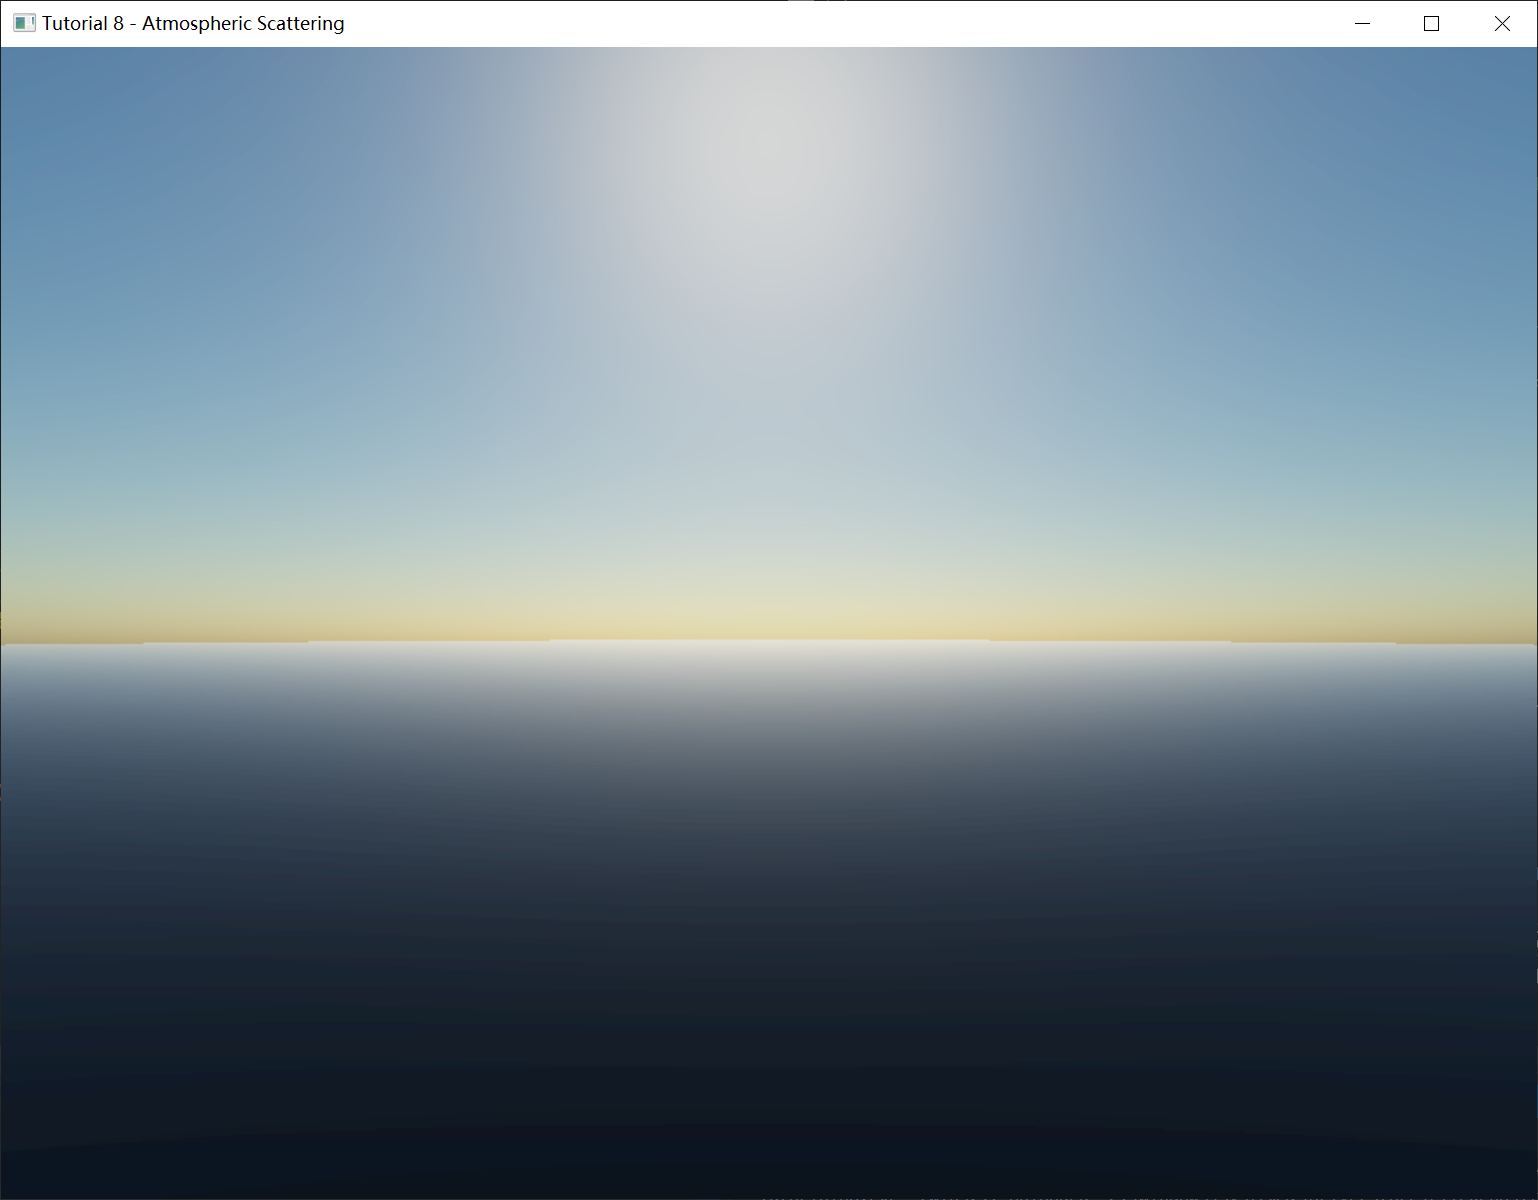
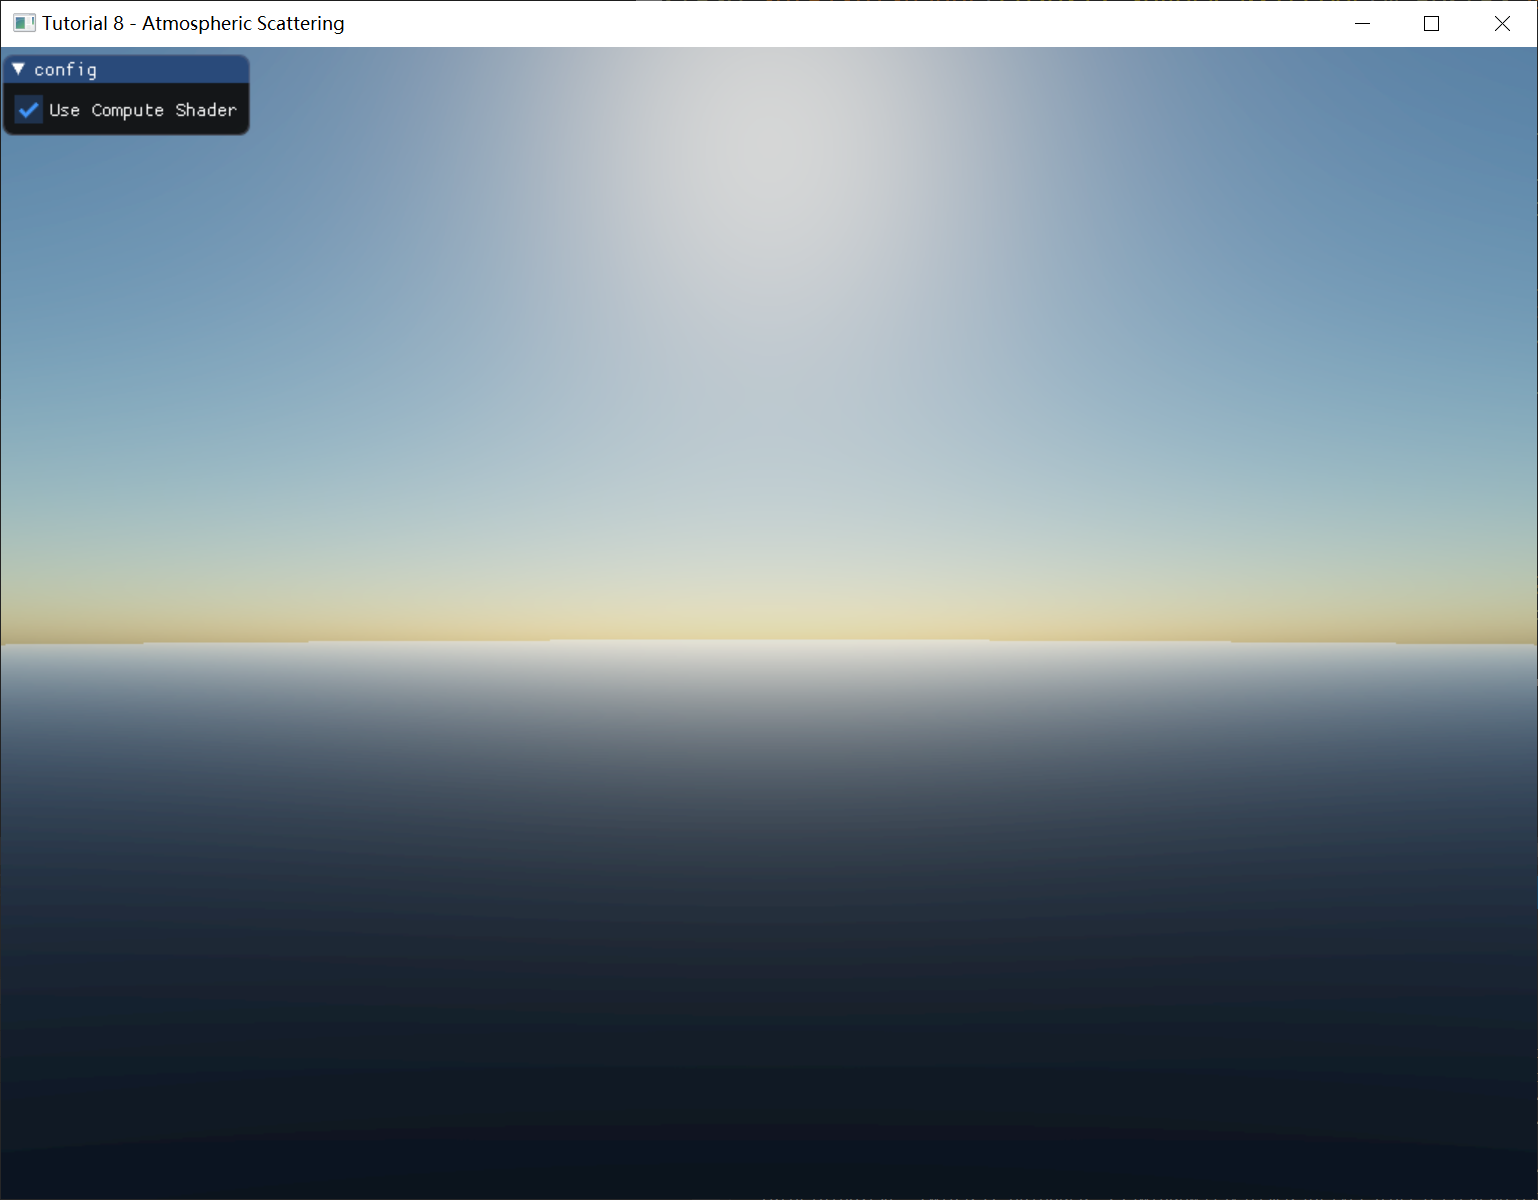
refactor code

diff --git a/Tutorial08/tutorial8.cpp b/Tutorial08/tutorial8.cpp
@@ -17,6 +17,7 @@
 #include "Model.h"
 #include "ShadowBuffer.h"
 #include "Light.h"
+#include "ImguiManager.h"
 
 #include <d3d12.h>
 #include <dxgi1_4.h>
@@ -28,7 +29,6 @@ extern FCommandListManager g_CommandListManager;
 
 
 const int SHADOW_BUFFER_SIZE = 1024;
-const static bool USE_CS = true;
 
 
 class Tutorial8 : public FGame
@@ -57,17 +57,34 @@ public:
 		m_Constants.InvProjectionMatrix = m_Camera.GetProjectionMatrix().Inverse();
 		m_Constants.InvViewMatrix = m_Camera.GetViewMatrix().Inverse();
 	}
+
+	void OnGUI(FCommandContext& CommandContext)
+	{
+		ImguiManager::Get().NewFrame();
+
+		ImGui::Begin("config", nullptr, ImGuiWindowFlags_AlwaysAutoResize);
+		ImGui::BeginGroup();
+		ImGui::Checkbox("Use Compute Shader", &m_bUseComputeShader);
+		ImGui::EndGroup();
+
+		ImGui::End();
+
+		ImguiManager::Get().Render(CommandContext, RenderWindow::Get());
+	}
 	
 	void OnRender()
 	{
 		FCommandContext& CommandContext = FCommandContext::Begin(D3D12_COMMAND_LIST_TYPE_DIRECT, L"3D Queue");
 
-		if (USE_CS)
+		if (m_bUseComputeShader)
 			ScatteringPassCS(CommandContext);
 		else
 			ScatteringPassPS(CommandContext);
 		PostProcess(CommandContext);
 		
+		OnGUI(CommandContext);
+
+		CommandContext.TransitionResource(RenderWindow::Get().GetBackBuffer(), D3D12_RESOURCE_STATE_PRESENT);
 		CommandContext.Finish(true);
 
 		RenderWindow::Get().Present();
@@ -218,7 +235,7 @@ private:
 
 	void PostProcess(FCommandContext& GfxContext)
 	{
-		if (USE_CS)
+		if (m_bUseComputeShader)
 		{
 			g_CommandListManager.GetGraphicsQueue().StallForProducer(g_CommandListManager.GetComputeQueue());
 		}
@@ -243,8 +260,6 @@ private:
 
 		// no need to set vertex buffer and index buffer
 		GfxContext.Draw(3);
-		
-		GfxContext.TransitionResource(BackBuffer, D3D12_RESOURCE_STATE_PRESENT);
 	}
 
 private:
@@ -275,6 +290,8 @@ private:
 	ComPtr<ID3DBlob> m_ScreenQuadVS;
 	ComPtr<ID3DBlob> m_PostPS;
 	ComPtr<ID3DBlob> m_ScatteringPS;
+
+	bool m_bUseComputeShader = true;
 
 	FCamera m_Camera;
 	FDirectionalLight m_DirectionLight;

diff --git a/README.md b/README.md
@@ -80,7 +80,7 @@ Table of contents
 
 ## Tutorial 08 - Atmospheric Scattering
 
-实现了单次大气散射，计划后续完成预计算的多重散射。
+实现了单次大气散射，计划后续完成预计算的多重散射。同时测试了Compute Shader异步调用、同步机制。
 
 ![Tutorial08](./Tutorial08/Result/Tutorial08.png)
 
